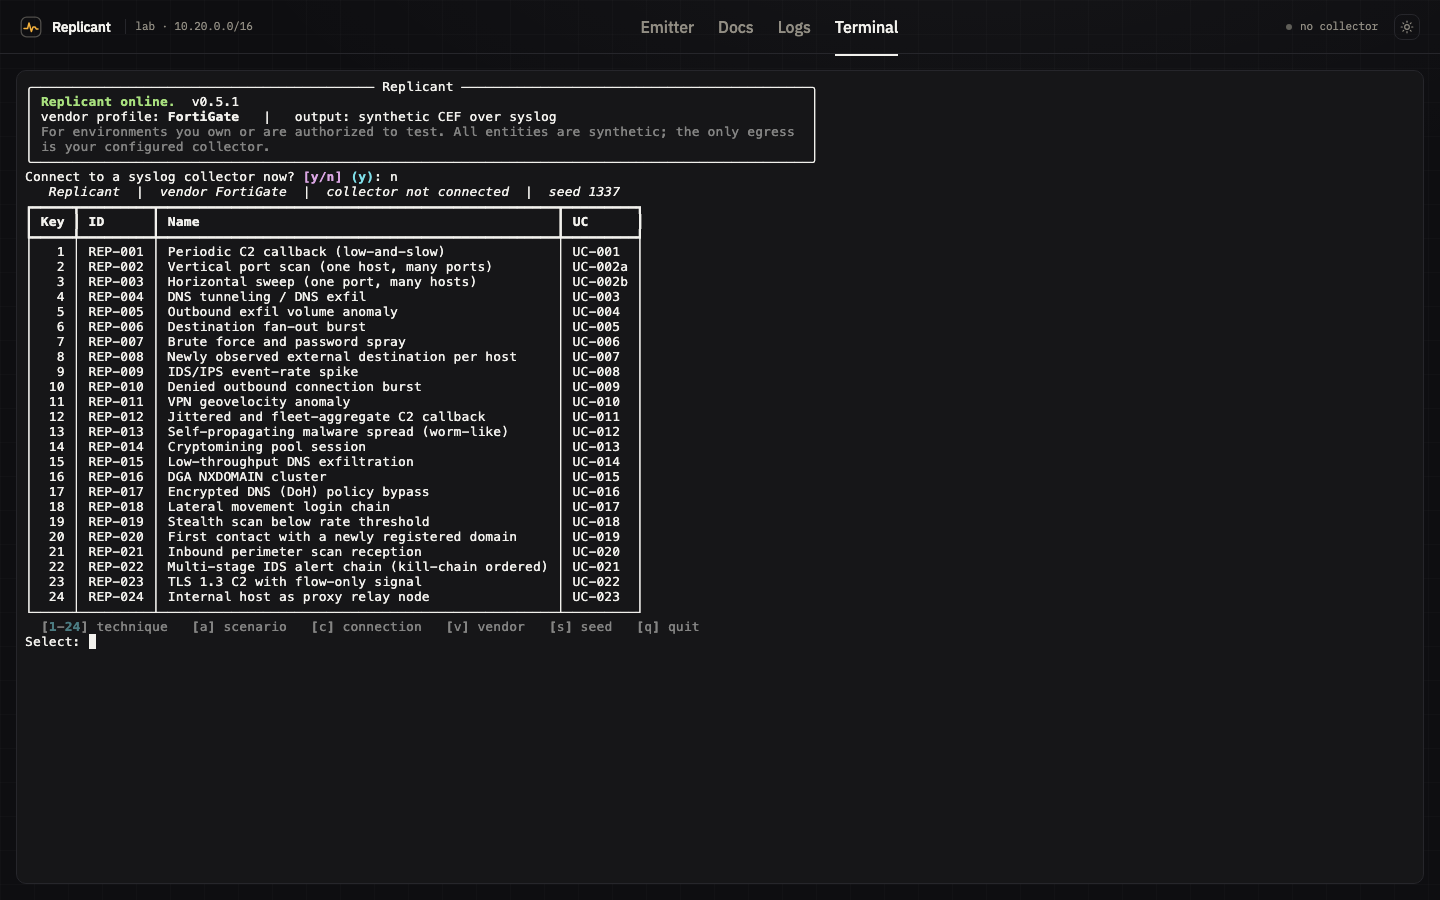
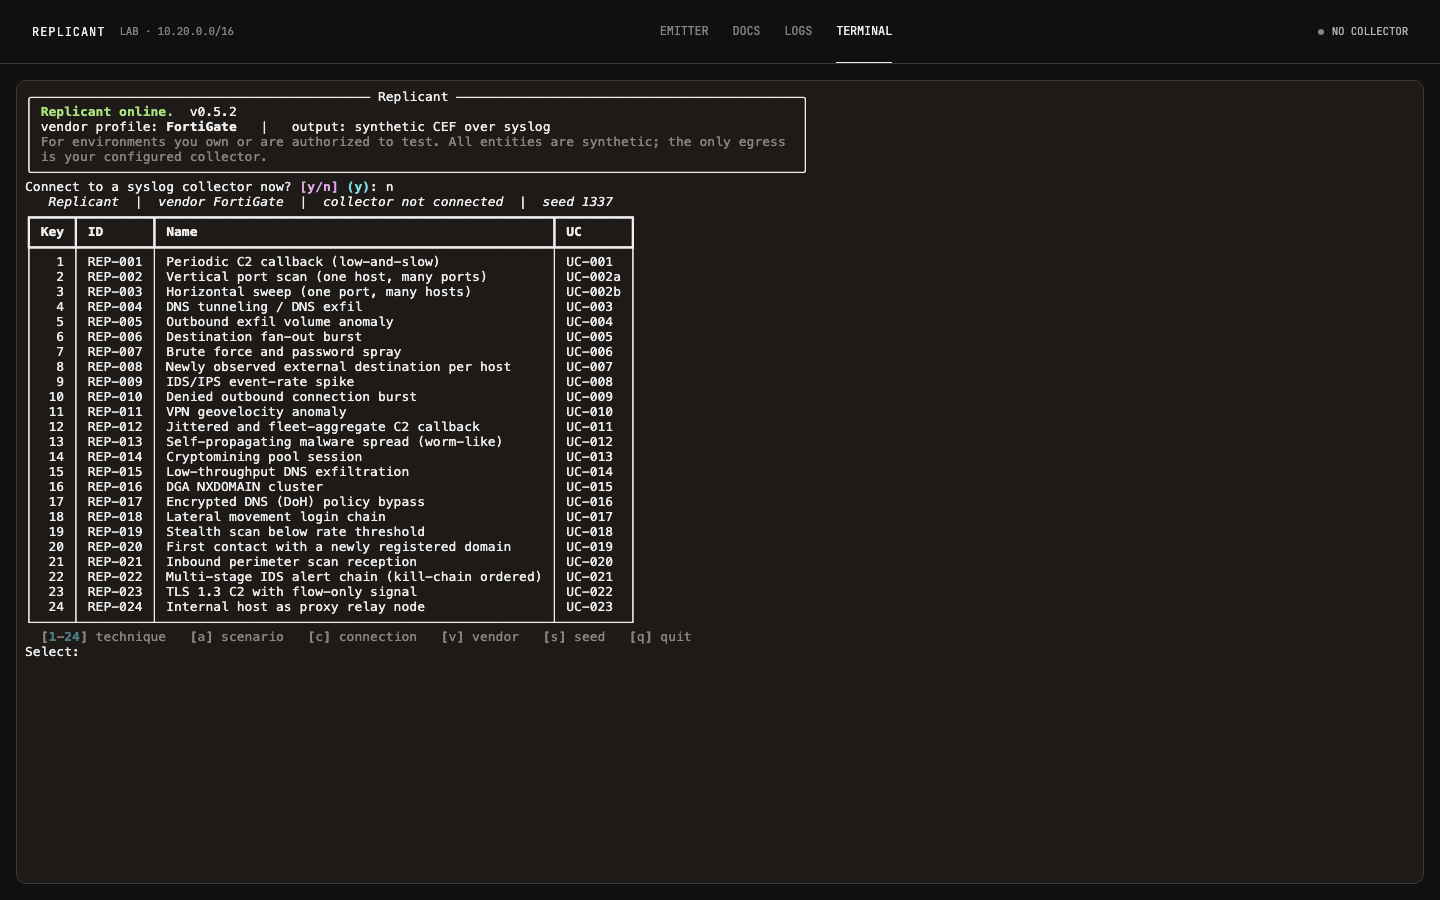
docs: regenerate screenshots for the Factory UI, retire the light shot
All four web UI screenshots recaptured. The capture script loses its theme
machinery (the UI is dark-only, so there is no class to pin or assert) and
instead refuses to capture until the body has painted the Factory canvas, so a
CSS load failure cannot silently replace a committed dark shot with a white
one. The run capture now waits for the manifest line instead of sleeping 4
seconds: the fixed sleep raced the server, and one capture shipped showing 0
events emitted beside EMITTING while the 108000-event plan was still building.

README: the light-theme section is replaced by the dark-only Factory
description, the history bullet records the removal, and 'delivered rate'
wording is gone from the run description (nothing in the UI measures
delivery).

Changed region(s): [[0.0, 0.0, 1.0, 0.7467]]

diff --git a/scripts/capture-webui-screenshots.py b/scripts/capture-webui-screenshots.py
@@ -23,17 +23,15 @@ because two of the three shots need interaction: one needs the Docs tab open, on
 needs a run actually emitting. Captures at 1440x900 at scale 1, matching the
 images already committed.
 
-**The theme is pinned, not inherited.** The UI follows ``prefers-color-scheme`` on
-first load, and headless Chrome reports *light*. Left alone, this script would have
-quietly re-themed every committed screenshot the first time it ran after the light
-theme shipped. ``--theme`` emulates the media feature and then asserts the page
-actually landed on it, so a shot can never be mislabelled.
+The UI is dark-only (the Factory system), so there is no theme to pin any more;
+the script still refuses to capture until the page has painted the Factory canvas,
+so a shot of a half-loaded or unstyled page cannot land in the repo unnoticed.
 
 Usage:
 
     replicant web --no-browser                       # in another shell
     python scripts/capture-webui-screenshots.py "http://127.0.0.1:9787/?token=..."
-    python scripts/capture-webui-screenshots.py URL --theme light --views emitter
+    python scripts/capture-webui-screenshots.py URL --views emitter
 
 The run shot starts a real run with no collector and no output file, so it emits
 to the browser stream and writes nothing anywhere.
@@ -137,31 +135,17 @@ class Chrome:
         path.write_bytes(base64.b64decode(result["data"]))
         print(f"  wrote {path.relative_to(OUT_DIR.parents[1])}")
 
-    async def pin_theme(self, theme: str) -> None:
-        """Emulate a colour-scheme preference, for use before navigating."""
-        await self.send(
-            "Emulation.setEmulatedMedia",
-            features=[{"name": "prefers-color-scheme", "value": theme}],
-        )
+    async def assert_factory_canvas(self) -> None:
+        """Fail rather than capture an unstyled or half-loaded page.
 
-    async def assert_theme(self, theme: str) -> None:
-        """Fail rather than write a shot labelled with a theme it is not in.
-
-        The app stores an explicit toggle in localStorage and that beats the OS
-        preference. This script never toggles, so a fresh profile follows the
-        emulated media; but the Chrome profile is reused between runs, and a
-        stored value would silently win. Cheaper to assert than to notice later
-        in a committed PNG.
+        The UI is dark-only, so the check is no longer which theme won but
+        whether the stylesheet painted at all: the body must be the Factory
+        canvas (#101010). A CSS load failure otherwise produces a white shot
+        that quietly replaces a committed dark one.
         """
-        actual = await self.evaluate(
-            "document.documentElement.classList.contains('dark') ? 'dark' : 'light'"
-        )
-        if actual != theme:
-            stored = await self.evaluate("localStorage.getItem('replicant.theme')")
-            raise RuntimeError(
-                f"asked for the {theme} theme but the page rendered {actual}"
-                f" (localStorage replicant.theme = {stored!r})"
-            )
+        actual = await self.evaluate("getComputedStyle(document.body).backgroundColor")
+        if actual != "rgb(16, 16, 16)":
+            raise RuntimeError(f"expected the Factory canvas rgb(16, 16, 16), got {actual!r}")
 
 
 def button_by_text(text: str) -> str:
@@ -186,18 +170,11 @@ def button_starting_with(prefix: str) -> str:
     )
 
 
-def shot_name(view: str, theme: str) -> str:
-    """`webui-emitter.png` for dark, `webui-emitter-light.png` for light.
-
-    Dark keeps the bare name because it is what the committed images and every
-    README reference already use, and renaming them to `-dark` would break those
-    for no gain.
-    """
-    suffix = "" if theme == "dark" else f"-{theme}"
-    return f"webui-{view}{suffix}.png"
+def shot_name(view: str) -> str:
+    return f"webui-{view}.png"
 
 
-async def capture_all(url: str, theme: str, views: set[str]) -> None:
+async def capture_all(url: str, views: set[str]) -> None:
     chrome = subprocess.Popen(  # noqa: S603 - fixed path, no shell
         [
             CHROME,
@@ -208,9 +185,7 @@ async def capture_all(url: str, theme: str, views: set[str]) -> None:
             "--hide-scrollbars",
             "--disable-gpu",
             "--no-first-run",
-            # Per theme, so a stored preference from a previous run of the other
-            # theme cannot leak across and override the emulated media.
-            f"--user-data-dir=/tmp/replicant-shots-{theme}",
+            "--user-data-dir=/tmp/replicant-shots",
             "about:blank",
         ],
         stdout=subprocess.DEVNULL,
@@ -242,18 +217,17 @@ async def capture_all(url: str, theme: str, views: set[str]) -> None:
                 deviceScaleFactor=1,
                 mobile=False,
             )
-            await page.pin_theme(theme)
             await page.send("Page.navigate", url=url)
             await page.wait_for(
                 "!!document.querySelector('input[aria-label=\"Filter techniques\"]')",
                 what="the catalog rail",
             )
-            await page.assert_theme(theme)
+            await page.assert_factory_canvas()
             # The signal diagram animates in; let it settle before capturing.
             await asyncio.sleep(1.5)
             if "emitter" in views:
                 print("emitter view")
-                await page.capture(shot_name("emitter", theme))
+                await page.capture(shot_name("emitter"))
 
             if "docs" in views:
                 print("docs tab")
@@ -262,7 +236,7 @@ async def capture_all(url: str, theme: str, views: set[str]) -> None:
                     "!!document.querySelector('.doc-prose h1')", what="a rendered doc"
                 )
                 await asyncio.sleep(0.5)
-                await page.capture(shot_name("docs", theme))
+                await page.capture(shot_name("docs"))
 
             if "run" in views:
                 print("live run")
@@ -301,22 +275,23 @@ async def capture_all(url: str, theme: str, views: set[str]) -> None:
                 # No collector and no output file: the run emits to the browser
                 # stream and writes nothing to disk.
                 await page.click(button_starting_with("Run "))
-                # Capture just after the plan drains. REP-004's default is 108000
-                # events and the useful window is narrow: at 2.2s the readout still
-                # showed single digits, and a looser "wait until the rate is high"
-                # predicate matched the intensity-preset numbers elsewhere on the
-                # page and fired before the run even started. The settled frame
-                # carries more anyway -- the full waveform, the delivered rate
-                # against the cap, and the manifest panel -- so it is the one the
-                # README uses.
-                await asyncio.sleep(4.0)
+                # Capture the settled frame: the full waveform, the final counts,
+                # and the manifest panel. A fixed sleep raced the server here --
+                # REP-004's 108000-event plan can still be building seconds after
+                # the click, and one capture shipped showing 0 events emitted
+                # beside EMITTING. The manifest line only exists once the run is
+                # actually done, so waiting for it cannot capture early.
+                await page.wait_for(
+                    "document.body.textContent.includes('manifest written')",
+                    what="the run to finish and write its manifest",
+                    timeout=180.0,
+                )
                 await page.evaluate(
                     "document.querySelector('main').scrollTop = "
                     "document.querySelector('main').scrollHeight * 0.55"
                 )
                 await asyncio.sleep(0.4)
-                await page.capture(shot_name("run", theme))
-                await page.click(button_by_text("Stop"))
+                await page.capture(shot_name("run"))
 
             if "terminal" in views:
                 print("terminal tab")
@@ -331,7 +306,7 @@ async def capture_all(url: str, theme: str, views: set[str]) -> None:
                 await page.evaluate("document.querySelector('.xterm-helper-textarea').focus()")
                 await page.type_line("n")
                 await asyncio.sleep(2.5)
-                await page.capture(shot_name("terminal", theme))
+                await page.capture(shot_name("terminal"))
     finally:
         chrome.terminate()
         chrome.wait(timeout=10)
@@ -340,12 +315,6 @@ async def capture_all(url: str, theme: str, views: set[str]) -> None:
 def main() -> int:
     parser = argparse.ArgumentParser(description=__doc__ or "")
     parser.add_argument("url", help="the web UI URL, including ?token=")
-    parser.add_argument(
-        "--theme",
-        choices=("dark", "light"),
-        default="dark",
-        help="colour scheme to emulate and assert (default: dark)",
-    )
     parser.add_argument(
         "--views",
         default=",".join(VIEWS),
@@ -361,7 +330,7 @@ def main() -> int:
     if not Path(CHROME).exists():
         parser.error(f"Google Chrome not found at {CHROME}")
 
-    asyncio.run(capture_all(args.url, args.theme, views))
+    asyncio.run(capture_all(args.url, views))
     return 0
 
 

diff --git a/README.md b/README.md
@@ -293,17 +293,15 @@ The banner prints the token only when it is attached to a terminal. Under system
 
 > **Keeping it loopback-only.** That is still the default: plain `replicant web` binds 127.0.0.1 and nothing else. To reach a loopback-only instance from your workstation, tunnel it rather than rebinding: `ssh -N -L 9787:127.0.0.1:9787 operator@sensor`.
 
-A run streams live CEF while it emits, plots the delivered rate, and writes its manifest when it finishes. The readout says `uncapped` here because this run has no collector: the events-per-second cap governs sending, so a dry run or a file-only run is not throttled and the rate goes as fast as the machine allows. Point the same run at a collector and the readout shows `cap 2000` instead.
+A run streams live CEF while it emits, plots the emission rate, and writes its manifest when it finishes. The readout says `uncapped` here because this run has no collector: the events-per-second cap governs sending, so a dry run or a file-only run is not throttled and the rate goes as fast as the machine allows. Point the same run at a collector and the readout shows `cap 2000` instead.
 
-<img src="docs/images/webui-run.png" alt="A finished run in the web UI: the delivered-rate waveform labelled uncapped, the full progress bar, the tail of streamed FortiGate CEF, and the run manifest showing event count, seed, intensity, target, transport, and anchor" width="900" />
+<img src="docs/images/webui-run.png" alt="A finished run in the web UI's war-room frame: metric tiles showing 108,000 of 108,000 events emitted, the uncapped emission rate with an instrumented sparkline, elapsed time, and the full progress track" width="900" />
 
 The Terminal tab, when enabled, runs the Rich menu inside the browser:
 
 <img src="docs/images/webui-terminal.png" alt="The embedded terminal tab running the Rich menu, showing the technique table and the technique, scenario, connection, vendor, seed, and quit prompts" width="900" />
 
-The UI follows your system's colour scheme on first load and remembers an explicit toggle after that, so it sits dark beside a dark SIEM console and light on a projector or a bright desk. The light palette is warm paper rather than cold white, and every pair that carries meaning was measured on the rendered page against the dark theme's own ratios rather than judged by eye. The amber that means "signal is live" darkens to hold 4.5:1 on paper, so the one semantic accent survives the change intact.
-
-<img src="docs/images/webui-emitter-light.png" alt="The same Emitter view in the light theme: warm paper surfaces and graphite text, with the ATT&CK-grouped technique rail, the selected technique's detail panel, and the amber signal path diagram" width="900" />
+The UI is deliberately dark-only: a terminal war room built to sit beside a dark SIEM console. Machine values, labels, and status tags speak in JetBrains Mono; human sentences and hero numerics in Geist; and the two chromatic colors, signal orange and metric green, are reserved for live data and never appear on buttons, navigation, or headings. Every contrast pair was measured on the rendered page, not on the token table. The design contract is `docs/webui-factory-design.md`.
 
 Below 1024px the fixed-viewport shell becomes an ordinary scrolling page and the left rail becomes a disclosure panel labelled with the armed technique, so the run stage is not squeezed into a few hundred pixels on a laptop or a tablet. Wide content, a long CEF line or a vendor reference table, scrolls inside its own container rather than dragging the page sideways.
 
@@ -412,7 +410,8 @@ The loopback transport test stands up an in-process UDP, TCP, and TLS receiver, 
 - **Phase 4 (complete):** ATT&CK scenario composition. Curated scenarios compose the existing techniques into one deterministic, multi-stage CEF timeline with a shared synthetic through-line, plus an advisory coverage document that maps the chain to ATT&CK tactics and flags gaps. Any AI assistance stays advisory while a human authors the detection design. Driven from `replicant scenario` (list/show/run) and the Rich menu `[a]`.
 - **Catalog expansion (complete):** the catalog grew from 11 techniques to 24 (REP-012 through REP-024), each anchored to a peer-reviewed detection paper with measured results rather than to a plausible guess. Added the `dns:dns-response` render path on all three vendors, which also makes fast-flux and DNS TTL techniques possible later, and a dedicated inbound-scanner entity pool. Several new entries are the graded, harder counterpart of an existing one, and techniques whose detection depends on separating a signal from a look-alike now emit the look-alike as well.
 - **Web UI access and navigation (complete):** the UI serves on a fixed port and can bind an address the rest of the segment can reach, with a persistent token, an httpOnly session cookie, a Host allowlist that follows the bind address, and the embedded terminal off by default once the bind is not loopback. The left rail is grouped by ATT&CK tactic with a filter box and log-type toggles, a Docs tab renders the vendor CEF references in the browser, and the event-time anchor is a visible control in the run form.
-- **Light theme and responsive layout (complete):** the web UI follows `prefers-color-scheme` on first load and remembers an explicit toggle after that. The light palette is warm paper rather than cold white, and its contrast was measured pair by pair against the dark theme's own ratios instead of judged by eye, which also found and fixed four contrast defects in the shipped dark theme. Below 1024px the fixed-viewport shell becomes an ordinary scrolling page and the left rail becomes a disclosure panel; wide content such as CEF samples and the reference tables scrolls inside its own container rather than pushing the page sideways.
+- **Light theme and responsive layout (complete, light theme since removed):** the web UI briefly shipped a measured light palette alongside the dark one; the Factory redesign below made the UI dark-only and removed it. The responsive half survives: below 1024px the fixed-viewport shell becomes an ordinary scrolling page and the left rail becomes a disclosure panel; wide content such as CEF samples and the reference tables scrolls inside its own container rather than pushing the page sideways.
+- **Factory redesign (complete):** the web UI's visual system is the archived dark-era Factory design, "terminal war room at midnight": Geist and JetBrains Mono (both OFL, self-hosted with their licenses), the #101010/#ee6018 palette on a single dark theme, weight 400 everywhere, no gradients or shadows, chromatic color reserved for live data, and the run panel rebuilt as a dashboard frame with an instrumented sparkline. Design contract: `docs/webui-factory-design.md`.
 - **Next:** a live-vendor pass to replace the `[Unverified]` markers on the Palo Alto and Check Point references with confirmed output, which needs real appliances.
 
 ## Prior art and positioning
